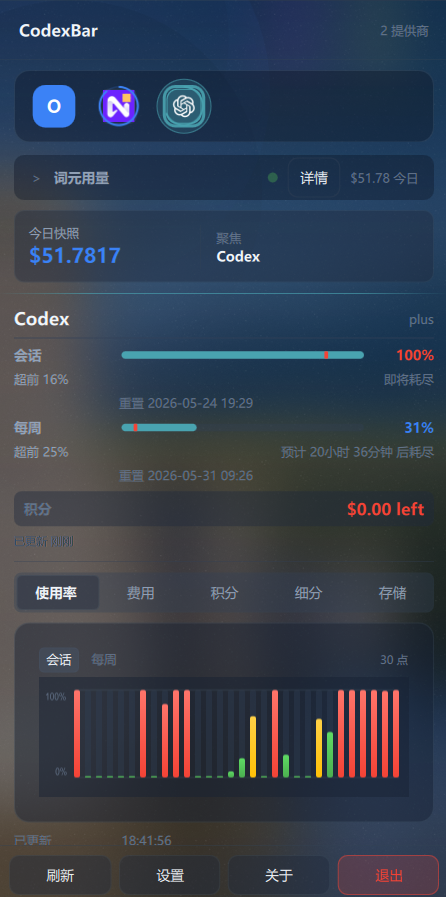
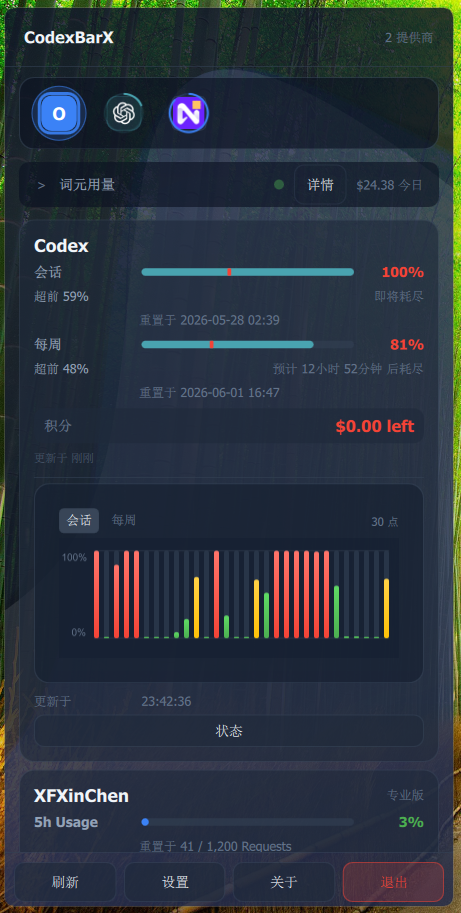
feat(theme): add Amethyst theme color set and update screenshots
Add Amethyst (purple-toned) theme as third option alongside Dark and
Midnight Blue. Expand AppThemeManager with full ColorSet for the new
theme. Update app screenshots. Add AppTheme unit tests for all three
themes and QML architecture coverage for theme selector.

diff --git a/qml/components/display/ThemeSelectorCard.qml b/qml/components/display/ThemeSelectorCard.qml
@@ -35,7 +35,8 @@ Components.SettingsGroupBox {
             model: [
                 { value: 0, label: qsTr("Dark") },
                 { value: 1, label: qsTr("Midnight Blue") },
-                { value: 2, label: qsTr("Amethyst") }
+                { value: 2, label: qsTr("Amethyst") },
+                { value: 3, label: qsTr("Light") }
             ]
             selectedValue: SettingsStore.theme
             onValueActivated: function(value) {

diff --git a/translations/CodexBarX_zh_CN.ts b/translations/CodexBarX_zh_CN.ts
@@ -3188,6 +3188,11 @@
         <source>Amethyst</source>
         <translation>紫水晶</translation>
     </message>
+    <message>
+        <location line="+1"/>
+        <source>Light</source>
+        <translation>浅色</translation>
+    </message>
 </context>
 <context>
     <name>TokenAccountsPane</name>

diff --git a/translations/CodexBarX_en.ts b/translations/CodexBarX_en.ts
@@ -3188,6 +3188,11 @@
         <source>Amethyst</source>
         <translation>Amethyst</translation>
     </message>
+    <message>
+        <location line="+1"/>
+        <source>Light</source>
+        <translation>Light</translation>
+    </message>
 </context>
 <context>
     <name>TokenAccountsPane</name>

diff --git a/tests/tst_AppTheme.cpp b/tests/tst_AppTheme.cpp
@@ -8,13 +8,39 @@
 #include <QVariant>
 #include <QVariantMap>
 
+#include <algorithm>
+#include <cmath>
 #include <memory>
+
+namespace {
+
+double srgbToLinear(double channel)
+{
+    return channel <= 0.03928 ? channel / 12.92 : std::pow((channel + 0.055) / 1.055, 2.4);
+}
+
+double relativeLuminance(const QColor& color)
+{
+    return 0.2126 * srgbToLinear(color.redF())
+        + 0.7152 * srgbToLinear(color.greenF())
+        + 0.0722 * srgbToLinear(color.blueF());
+}
+
+double contrastRatio(const QColor& a, const QColor& b)
+{
+    const double lighter = std::max(relativeLuminance(a), relativeLuminance(b));
+    const double darker = std::min(relativeLuminance(a), relativeLuminance(b));
+    return (lighter + 0.05) / (darker + 0.05);
+}
+
+} // namespace
 
 class tst_AppTheme : public QObject {
     Q_OBJECT
 
 private slots:
     void runtimeColorsAreOpaque();
+    void lightThemeProvidesReadableBrightPalette();
     void qmlThemeFileUsesInstalledCppTheme();
     void installedContextThemeExposesMetricsAndColors();
 };
@@ -69,6 +95,28 @@ void tst_AppTheme::runtimeColorsAreOpaque() {
         QVERIFY2(color.isValid(), qPrintable(QString("invalid theme color %1").arg(key)));
         QCOMPARE(color.alpha(), 255);
     }
+}
+
+void tst_AppTheme::lightThemeProvidesReadableBrightPalette() {
+    AppThemeManager theme;
+    theme.setCurrentTheme(AppThemeManager::Light);
+
+    QVERIFY2(theme.bgPrimary().lightnessF() > 0.88,
+             "Light theme primary background must read as a bright application surface.");
+    QVERIFY2(theme.bgCard().lightnessF() > 0.92,
+             "Light theme cards must stay airy instead of becoming gray panels.");
+    QVERIFY2(theme.bgChart().lightnessF() > 0.90,
+             "Light theme charts need a bright canvas for dense chart marks.");
+    QVERIFY2(theme.textPrimary().lightnessF() < 0.24,
+             "Light theme primary text must be dark enough for small tray labels.");
+    QVERIFY2(theme.textSecondary().lightnessF() < 0.45,
+             "Light theme secondary text must remain readable on light cards.");
+    QVERIFY2(contrastRatio(theme.bgPrimary(), theme.textPrimary()) >= 10.0,
+             "Light theme primary text contrast must be comfortably above WCAG AA.");
+    QVERIFY2(contrastRatio(theme.bgCard(), theme.textSecondary()) >= 4.5,
+             "Light theme secondary text contrast must meet WCAG AA on cards.");
+    QVERIFY2(contrastRatio(theme.accentColor(), QColor(Qt::white)) >= 4.5,
+             "Light theme accent must support white text for existing accent buttons.");
 }
 
 void tst_AppTheme::qmlThemeFileUsesInstalledCppTheme() {

diff --git a/src/app/AppTheme.cpp b/src/app/AppTheme.cpp
@@ -4,6 +4,23 @@
 #include <QQmlEngine>
 #include <QtQml>
 
+namespace {
+
+AppThemeManager::Theme normalizeTheme(int theme)
+{
+    switch (theme) {
+    case AppThemeManager::Dark:
+    case AppThemeManager::MidnightBlue:
+    case AppThemeManager::Amethyst:
+    case AppThemeManager::Light:
+        return static_cast<AppThemeManager::Theme>(theme);
+    default:
+        return AppThemeManager::Dark;
+    }
+}
+
+} // namespace
+
 AppThemeManager::AppThemeManager(QObject* parent)
     : QObject(parent)
 {}
@@ -65,8 +82,9 @@ int AppThemeManager::currentTheme() const {
 }
 
 void AppThemeManager::setCurrentTheme(int theme) {
-    if (m_currentTheme != theme) {
-        m_currentTheme = theme;
+    const int normalizedTheme = normalizeTheme(theme);
+    if (m_currentTheme != normalizedTheme) {
+        m_currentTheme = normalizedTheme;
         m_cacheDirty = true;
         emit themeChanged();
     }
@@ -133,6 +151,32 @@ AppThemeManager::ColorSet AppThemeManager::colorSet(Theme theme) const {
         c.statusUnknown  = QColor(0x88, 0x88, 0x88);
         c.accentColor    = QColor(0xa8, 0x55, 0xf7);
         c.accentHover    = QColor(0xc0, 0x84, 0xfc);
+        break;
+
+    case Light:
+        c.bgPrimary      = QColor(0xf6, 0xf9, 0xfc);
+        c.bgSecondary    = QColor(0xee, 0xf4, 0xf8);
+        c.bgTertiary     = QColor(0xe2, 0xeb, 0xf2);
+        c.bgCard         = QColor(0xff, 0xff, 0xff);
+        c.bgHover        = QColor(0xe7, 0xf0, 0xf6);
+        c.bgSelected     = QColor(0xd7, 0xe8, 0xf1);
+        c.bgPressed      = QColor(0xc7, 0xdc, 0xe8);
+        c.bgTitleBar     = QColor(0xed, 0xf5, 0xfa);
+        c.bgChart        = QColor(0xf8, 0xfb, 0xfd);
+        c.bgTrack        = QColor(0xd7, 0xe2, 0xea);
+        c.borderColor    = QColor(0xc8, 0xd6, 0xe0);
+        c.borderAccent   = QColor(0x7d, 0xb9, 0xc6);
+        c.textPrimary    = QColor(0x11, 0x1f, 0x2e);
+        c.textSecondary  = QColor(0x40, 0x52, 0x61);
+        c.textTertiary   = QColor(0x6f, 0x82, 0x92);
+        c.textDisabled   = QColor(0xa5, 0xb4, 0xc0);
+        c.textInverse    = QColor(0x5d, 0x70, 0x7f);
+        c.statusOk       = QColor(0x16, 0xa3, 0x4a);
+        c.statusDegraded = QColor(0xd9, 0x77, 0x06);
+        c.statusOutage   = QColor(0xdc, 0x26, 0x26);
+        c.statusUnknown  = QColor(0x94, 0xa3, 0xb8);
+        c.accentColor    = QColor(0x0b, 0x72, 0x85);
+        c.accentHover    = QColor(0x09, 0x5f, 0x70);
         break;
 
     case Dark:

diff --git a/tests/tst_QmlArchitecture.cpp b/tests/tst_QmlArchitecture.cpp
@@ -79,6 +79,7 @@ private slots:
     void nextGenerationSharedComponentsAreRegistered();
     void topLevelWindowsUseSharedWindowTitleBarComponent();
     void displayPaneUsesAppearanceLabComponents();
+    void themeSelectorOffersLightTheme();
     void usageChartsUseSharedChartFrameSystem();
     void ambientEffectsRespectMotionPreferences();
     void providerDetailUsesPhaseFourPanels();
@@ -1761,6 +1762,17 @@ void QmlArchitectureTest::displayPaneUsesAppearanceLabComponents()
         QVERIFY2(!display.contains(color),
                  qPrintable(QStringLiteral("DisplayPane preview must use AppTheme tokens instead of hardcoded color %1.").arg(color)));
     }
+}
+
+void QmlArchitectureTest::themeSelectorOffersLightTheme()
+{
+    const QString header = readFile("src/app/AppTheme.h");
+    const QString selector = readFile("qml/components/display/ThemeSelectorCard.qml");
+
+    QVERIFY2(header.contains(QStringLiteral("Light = 3")),
+             "AppThemeManager must expose Light as a stable persisted theme enum value.");
+    QVERIFY2(selector.contains(QStringLiteral("{ value: 3, label: qsTr(\"Light\") }")),
+             "ThemeSelectorCard must expose the Light theme in the settings picker.");
 }
 
 void QmlArchitectureTest::usageChartsUseSharedChartFrameSystem()

diff --git a/src/app/AppTheme.h b/src/app/AppTheme.h
@@ -66,7 +66,8 @@ public:
     enum Theme {
         Dark = 0,
         MidnightBlue = 1,
-        Amethyst = 2
+        Amethyst = 2,
+        Light = 3
     };
     Q_ENUM(Theme)
 
